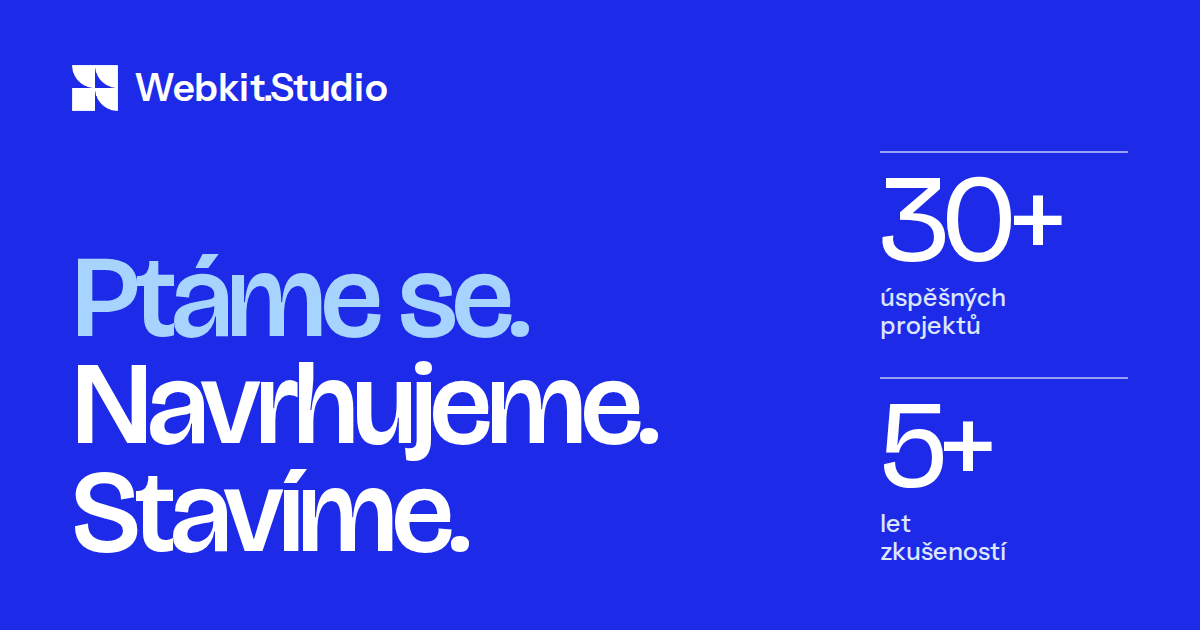
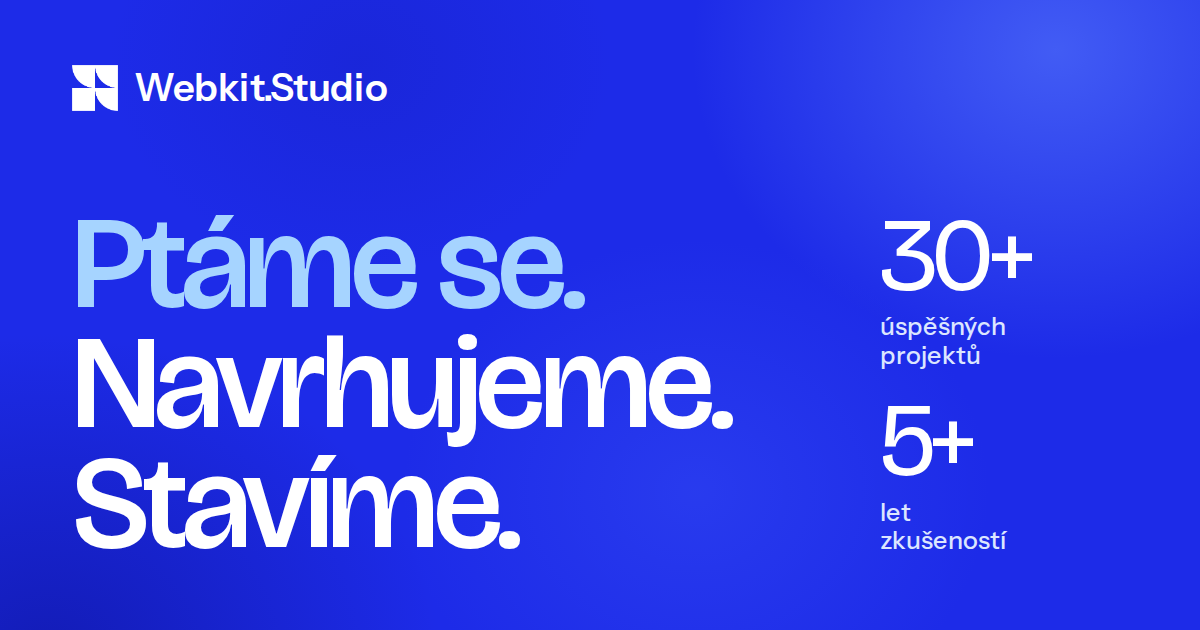
OG modrá varianta: bez čar, čísla zarovnaná na hrany nadpisu, jemné bubliny gradientu
Claude-Session: https://claude.ai/code/session_017Ym74L7XJ7xfLxv7gPGcqG

Changed region(s): [[0.0, 0.3317, 0.6167, 1.0], [0.7092, 0.0, 1.0, 0.6032], [0.74, 0.6333, 0.8325, 0.9048]]

diff --git a/site/webflow/og/og-inverze.html b/site/webflow/og/og-inverze.html
@@ -3,29 +3,29 @@
 <style>
 @font-face{font-family:"Bricolage";src:url(bricolage-grotesque-var.woff2) format("woff2");font-weight:200 800;font-stretch:75% 100%}
 @font-face{font-family:"Instrument";src:url(instrument-sans-var.woff2) format("woff2");font-weight:400 700}
-:root{--ink:#101321;--t2:#3A3F52;--mute:#646A7E;--line:#CDD2DC;--line2:#AEB5C4;--blue:#1D2BE8}
 *{margin:0;padding:0;box-sizing:border-box}
-html,body{width:1200px;height:630px;background:#1D2BE8;overflow:hidden}
-body{color:#fff;font-family:"Instrument",sans-serif;-webkit-font-smoothing:antialiased}
-/* rastr: okraje 72/64, levá zóna 1fr, pravá 248 px, mezera 56 */
-.page{position:absolute;inset:64px 72px;display:grid;grid-template-columns:1fr 248px;grid-template-rows:auto 1fr;column-gap:56px;row-gap:40px}
-.logo{display:flex;align-items:center;gap:16px;font-weight:600;font-size:38px;letter-spacing:-.012em;color:#fff}
+html,body{width:1200px;height:630px;overflow:hidden}
+/* brandová modrá #1D2BE8 + jemné bubliny světla a hloubky */
+body{position:relative;color:#fff;font-family:"Instrument",sans-serif;-webkit-font-smoothing:antialiased;
+  background:
+    radial-gradient(520px 440px at 88% 8%, rgba(96,132,255,.55), transparent 70%),
+    radial-gradient(420px 360px at 58% 78%, rgba(70,100,255,.28), transparent 70%),
+    radial-gradient(560px 460px at 4% 104%, rgba(12,18,150,.60), transparent 70%),
+    radial-gradient(360px 300px at 30% 10%, rgba(20,30,190,.35), transparent 70%),
+    #1D2BE8}
+.logo{position:absolute;left:72px;top:64px;display:flex;align-items:center;gap:16px;font-weight:600;font-size:38px;letter-spacing:-.012em}
 .logo img{width:46px;height:46px;display:block}
-.main{grid-column:1;display:flex;flex-direction:column;justify-content:flex-end}
-h1{font-family:"Bricolage";font-weight:560;font-variation-settings:"opsz" 96;font-size:118px;line-height:.91;letter-spacing:-.042em;color:#fff;margin-top:-12px}
+h1{position:absolute;left:72px;bottom:var(--hb,66px);font-family:"Bricolage";font-weight:560;font-variation-settings:"opsz" 96;font-size:var(--hs,132px);line-height:.91;letter-spacing:-.042em}
 h1 .b{color:#A6D4FF}
-.proof{grid-column:2;display:flex;flex-direction:column;justify-content:space-between}
-.stat{border-top:2px solid rgba(255,255,255,.55);padding-top:16px}
-.num{font-family:"Bricolage";font-weight:380;font-variation-settings:"opsz" 96;font-size:124px;line-height:.82;letter-spacing:-.045em;color:#fff}
-.lab{margin-top:12px;font-weight:500;font-size:25px;line-height:1.15;color:#DCE6FF}
+.proof{position:absolute;left:var(--pl,880px);top:var(--pt,213px);bottom:var(--pb,75px);display:flex;flex-direction:column;justify-content:space-between}
+.num{font-family:"Bricolage";font-weight:380;font-variation-settings:"opsz" 96;font-size:var(--ns,104px);line-height:.82;letter-spacing:-.045em}
+.lab{margin-top:14px;font-weight:500;font-size:25px;line-height:1.15;color:#DCE6FF}
 </style></head>
-<body><div class="page">
-  <div class="logo" style="grid-column:1/-1"><img src="symbol-white.png" alt="">Webkit.Studio</div>
-  <div class="main">
-    <h1><span class="b">Ptáme se.</span><br>Navrhujeme.<br>Stavíme.</h1>
-  </div>
+<body>
+  <div class="logo"><img src="symbol-white.png" alt="">Webkit.Studio</div>
+  <h1><span class="b">Ptáme se.</span><br>Navrhujeme.<br>Stavíme.</h1>
   <div class="proof">
     <div class="stat"><div class="num">30+</div><div class="lab">úspěšných<br>projektů</div></div>
     <div class="stat"><div class="num">5+</div><div class="lab">let<br>zkušeností</div></div>
   </div>
-</div></body></html>
+</body></html>
